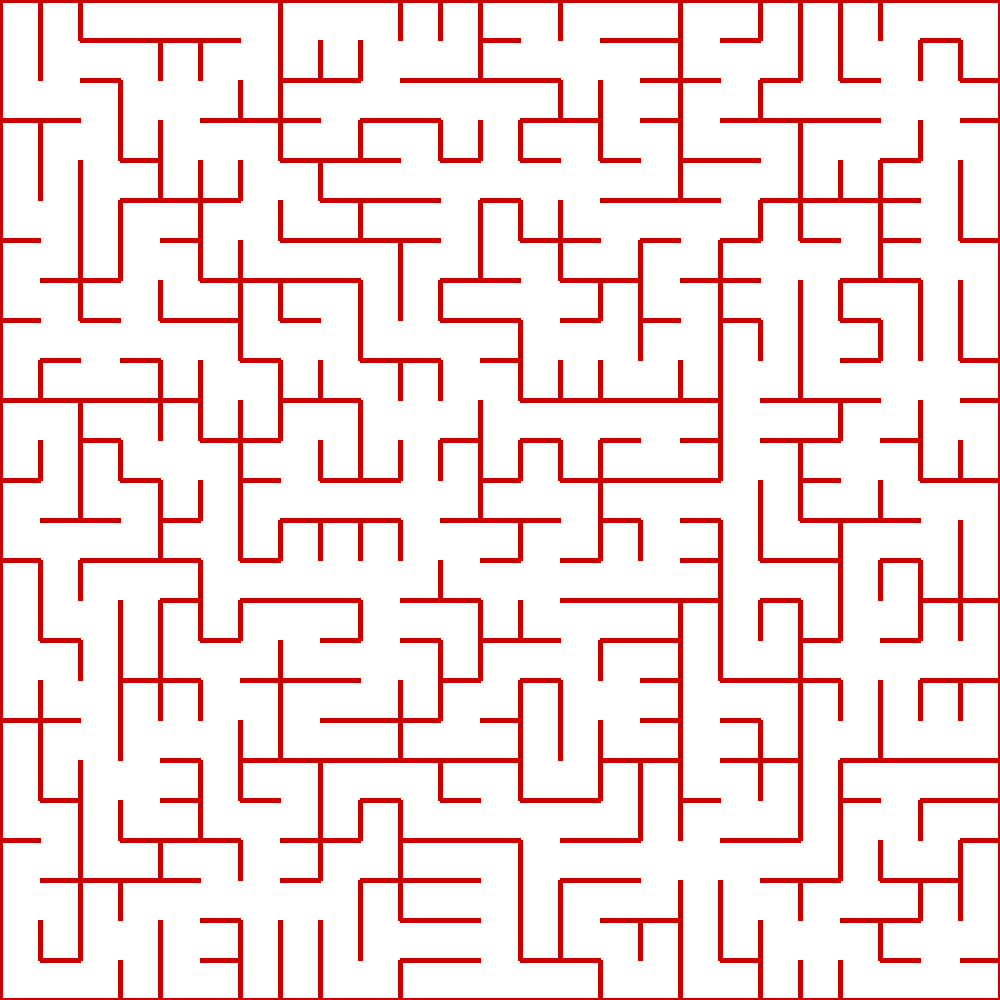
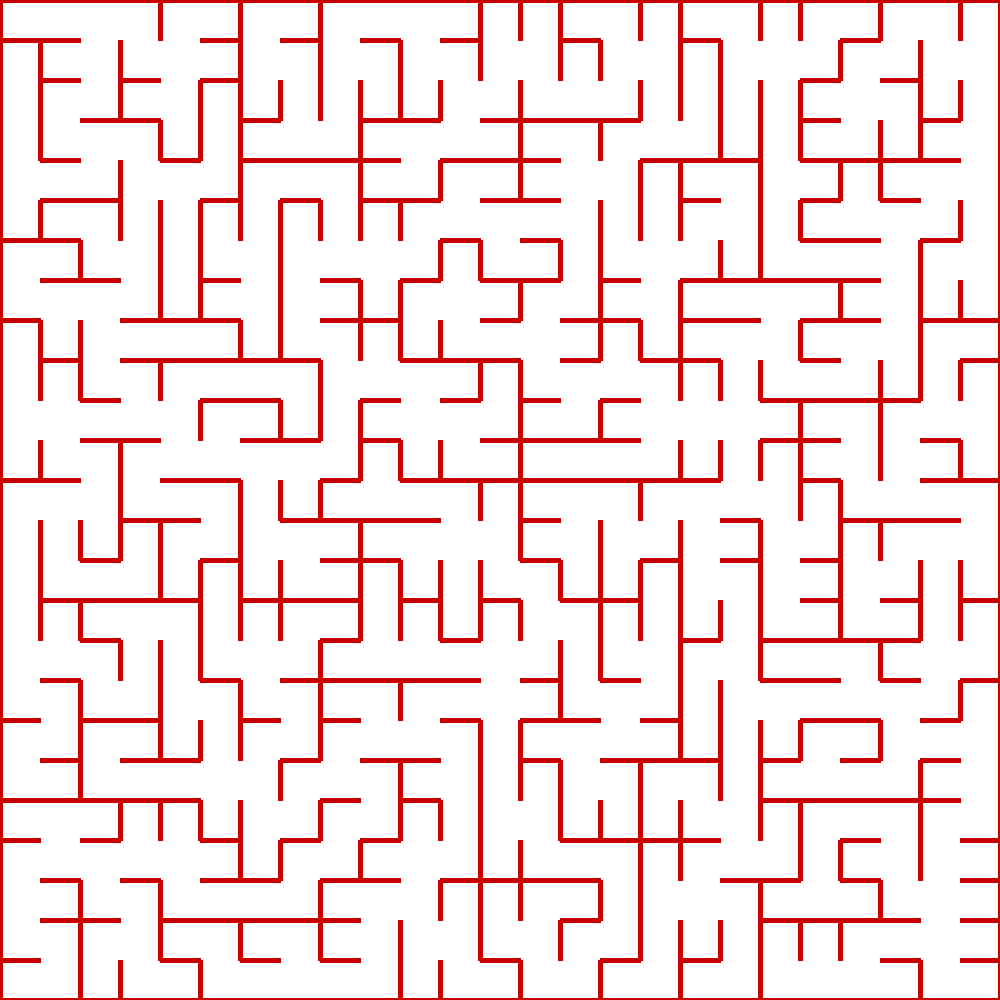
update

diff --git a/app.py b/app.py
@@ -1,5 +1,8 @@
-from flask import Flask, send_file
+from flask import Flask, send_file#, request
 from maze_threader import Mazethread
+from maze_primitives.maze import Maze
+from maze_primitives.draw_maze import draw_maze
+
 
 app = Flask(__name__)
 maze_generator = Mazethread()
@@ -8,6 +11,14 @@ maze_generator = Mazethread()
 def index():
     return send_file("./image2.png")
 
+
+@app.route("/size/<size>")
+def size_route(size):
+    # size = request.args["size"]
+    maze = Maze(size)
+    maze.make_maze_mazey()
+    draw_maze(maze.walls, size)
+    return send_file(f"{size}.png")
 
 if __name__ == '__main__':
     # Threaded option to enable multiple instances for multiple user access support

diff --git a/maze_primitives/draw_maze.py b/maze_primitives/draw_maze.py
@@ -2,7 +2,7 @@
 from PIL import Image, ImageDraw, ImageFont
 import sys
 
-def draw_maze(walls):
+def draw_maze(walls, filename = "image2.png"):
     img = Image.new("RGB", (1000, 1000), (255, 255, 255))
     img.save("image.png", "PNG")
     draw = ImageDraw.Draw(img)
@@ -27,7 +27,7 @@ def draw_maze(walls):
             #horizontal line
             draw.line((node2_x*40,node2_y*40,(node2_x +1) *40,node2_y *40),fill=200,width=5)
             pass
-    img.save("image2.png", "PNG")
+    img.save(f"{filename}.png", "PNG")
     # img.show()
 
 
